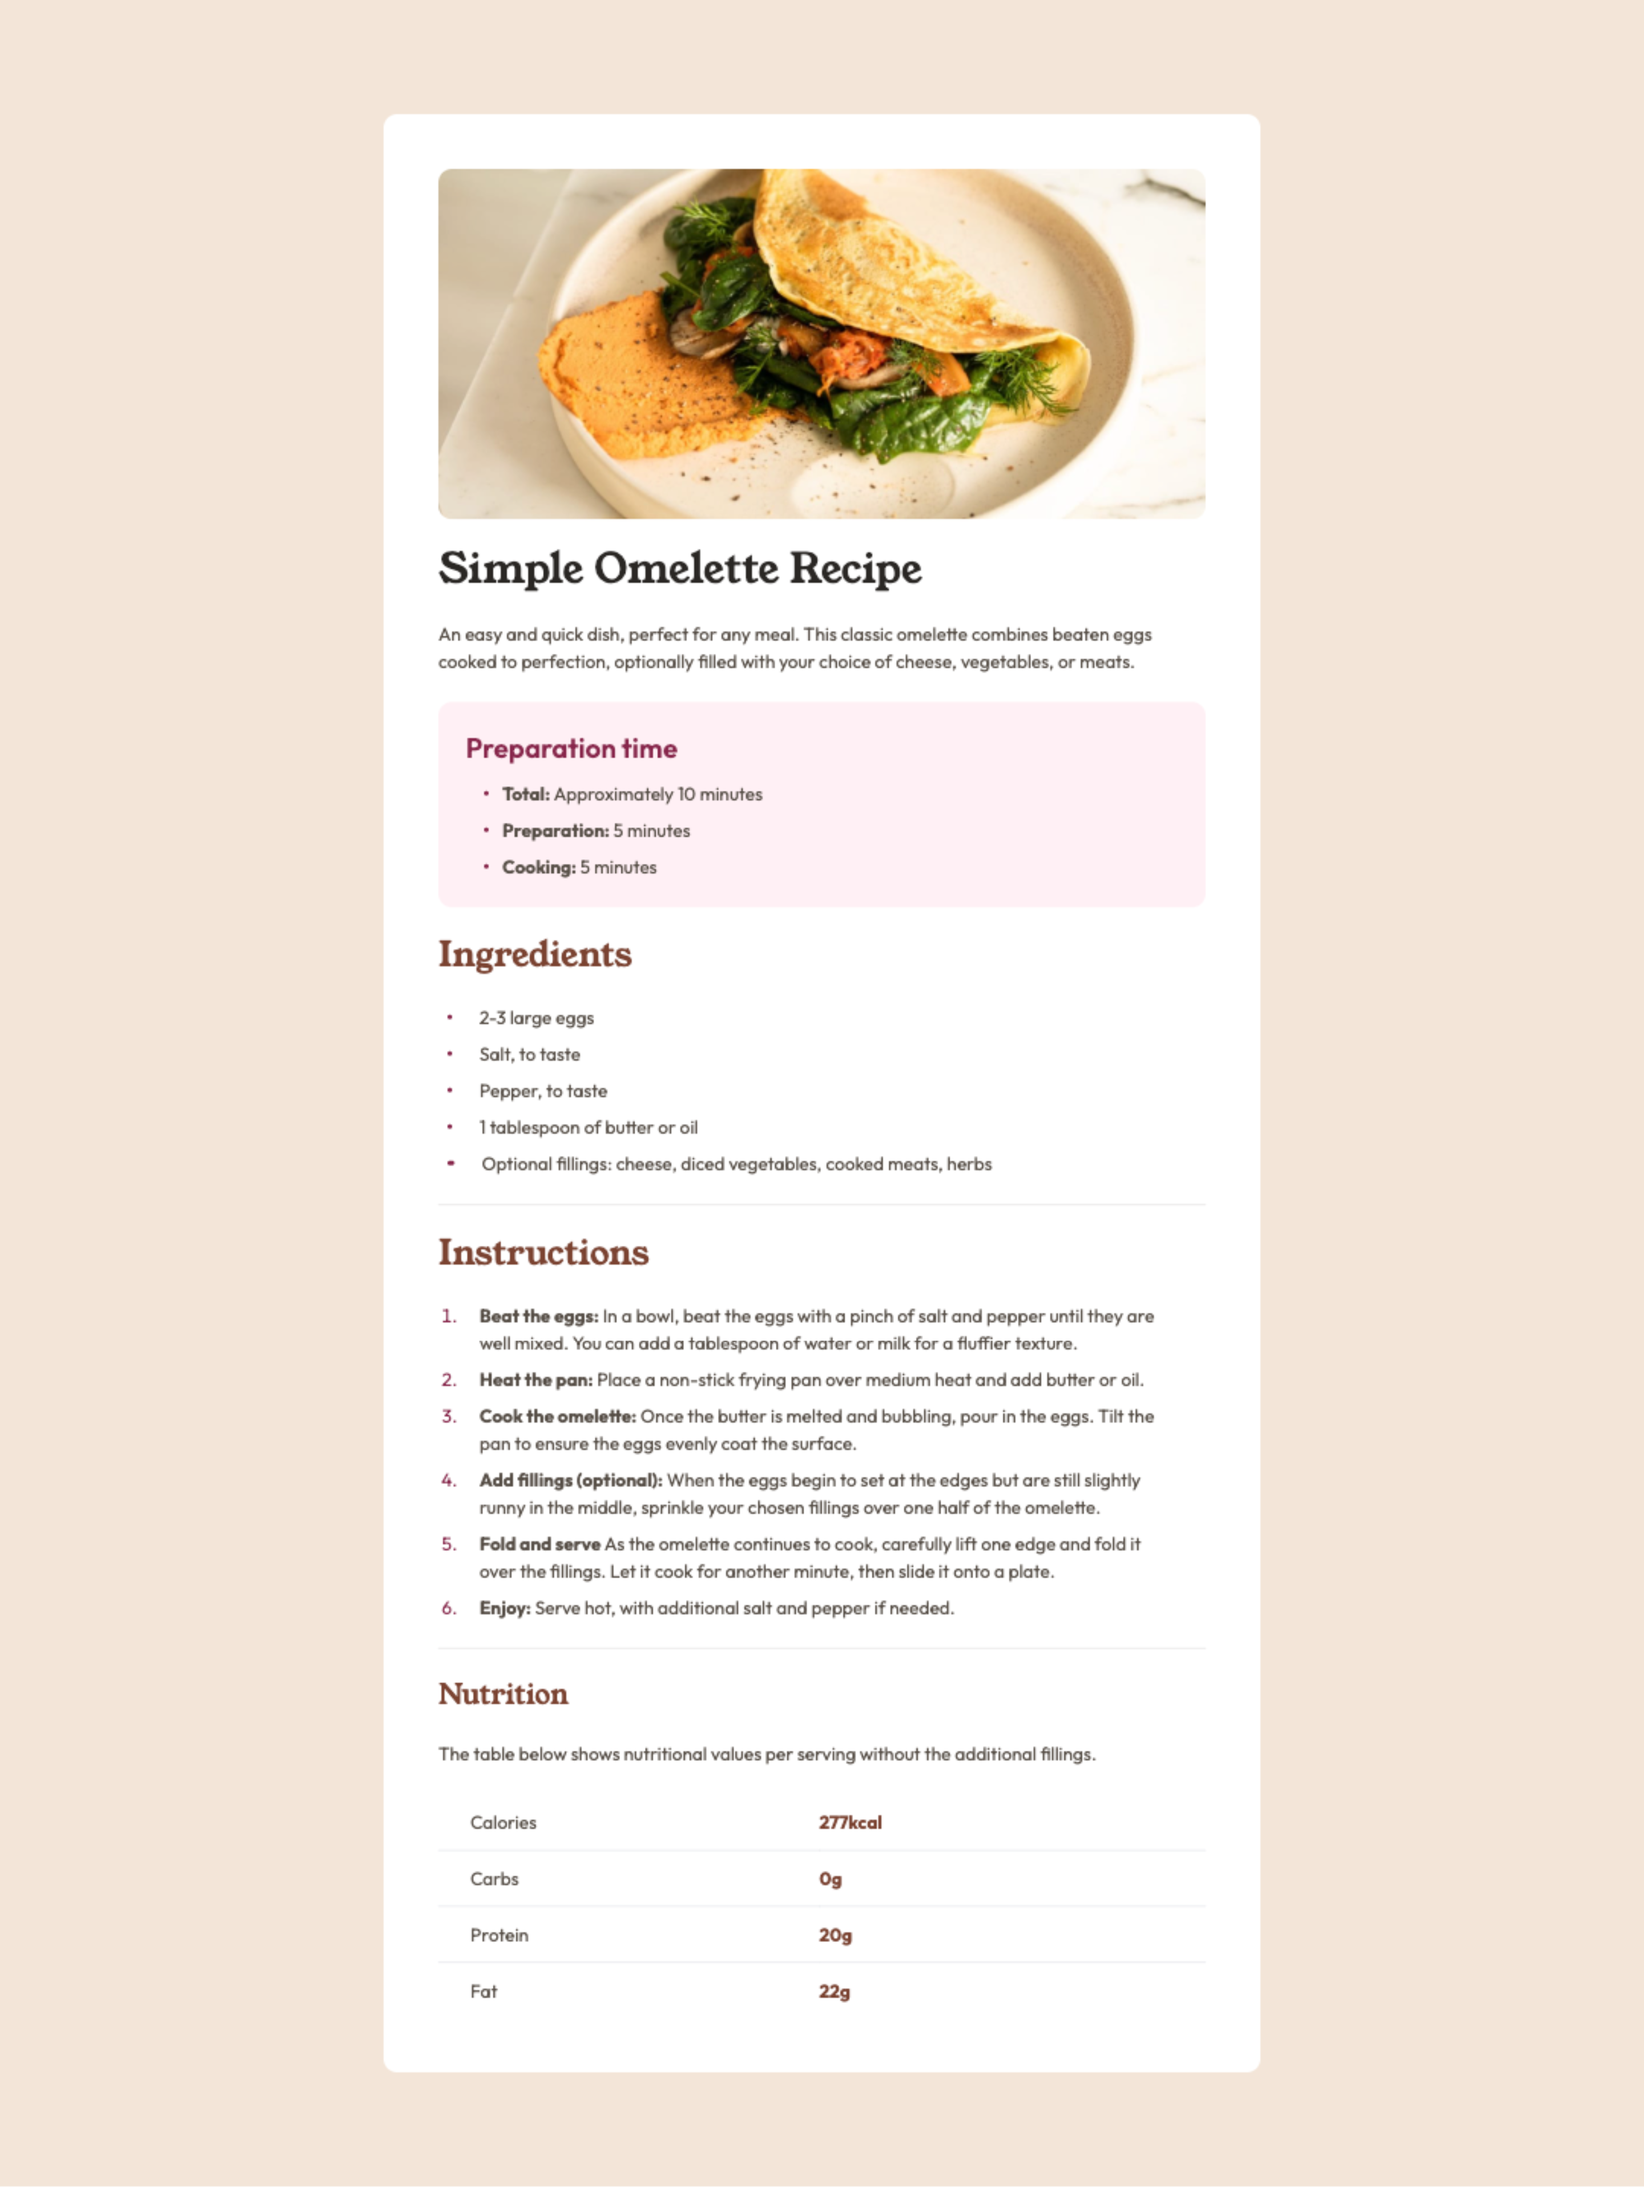
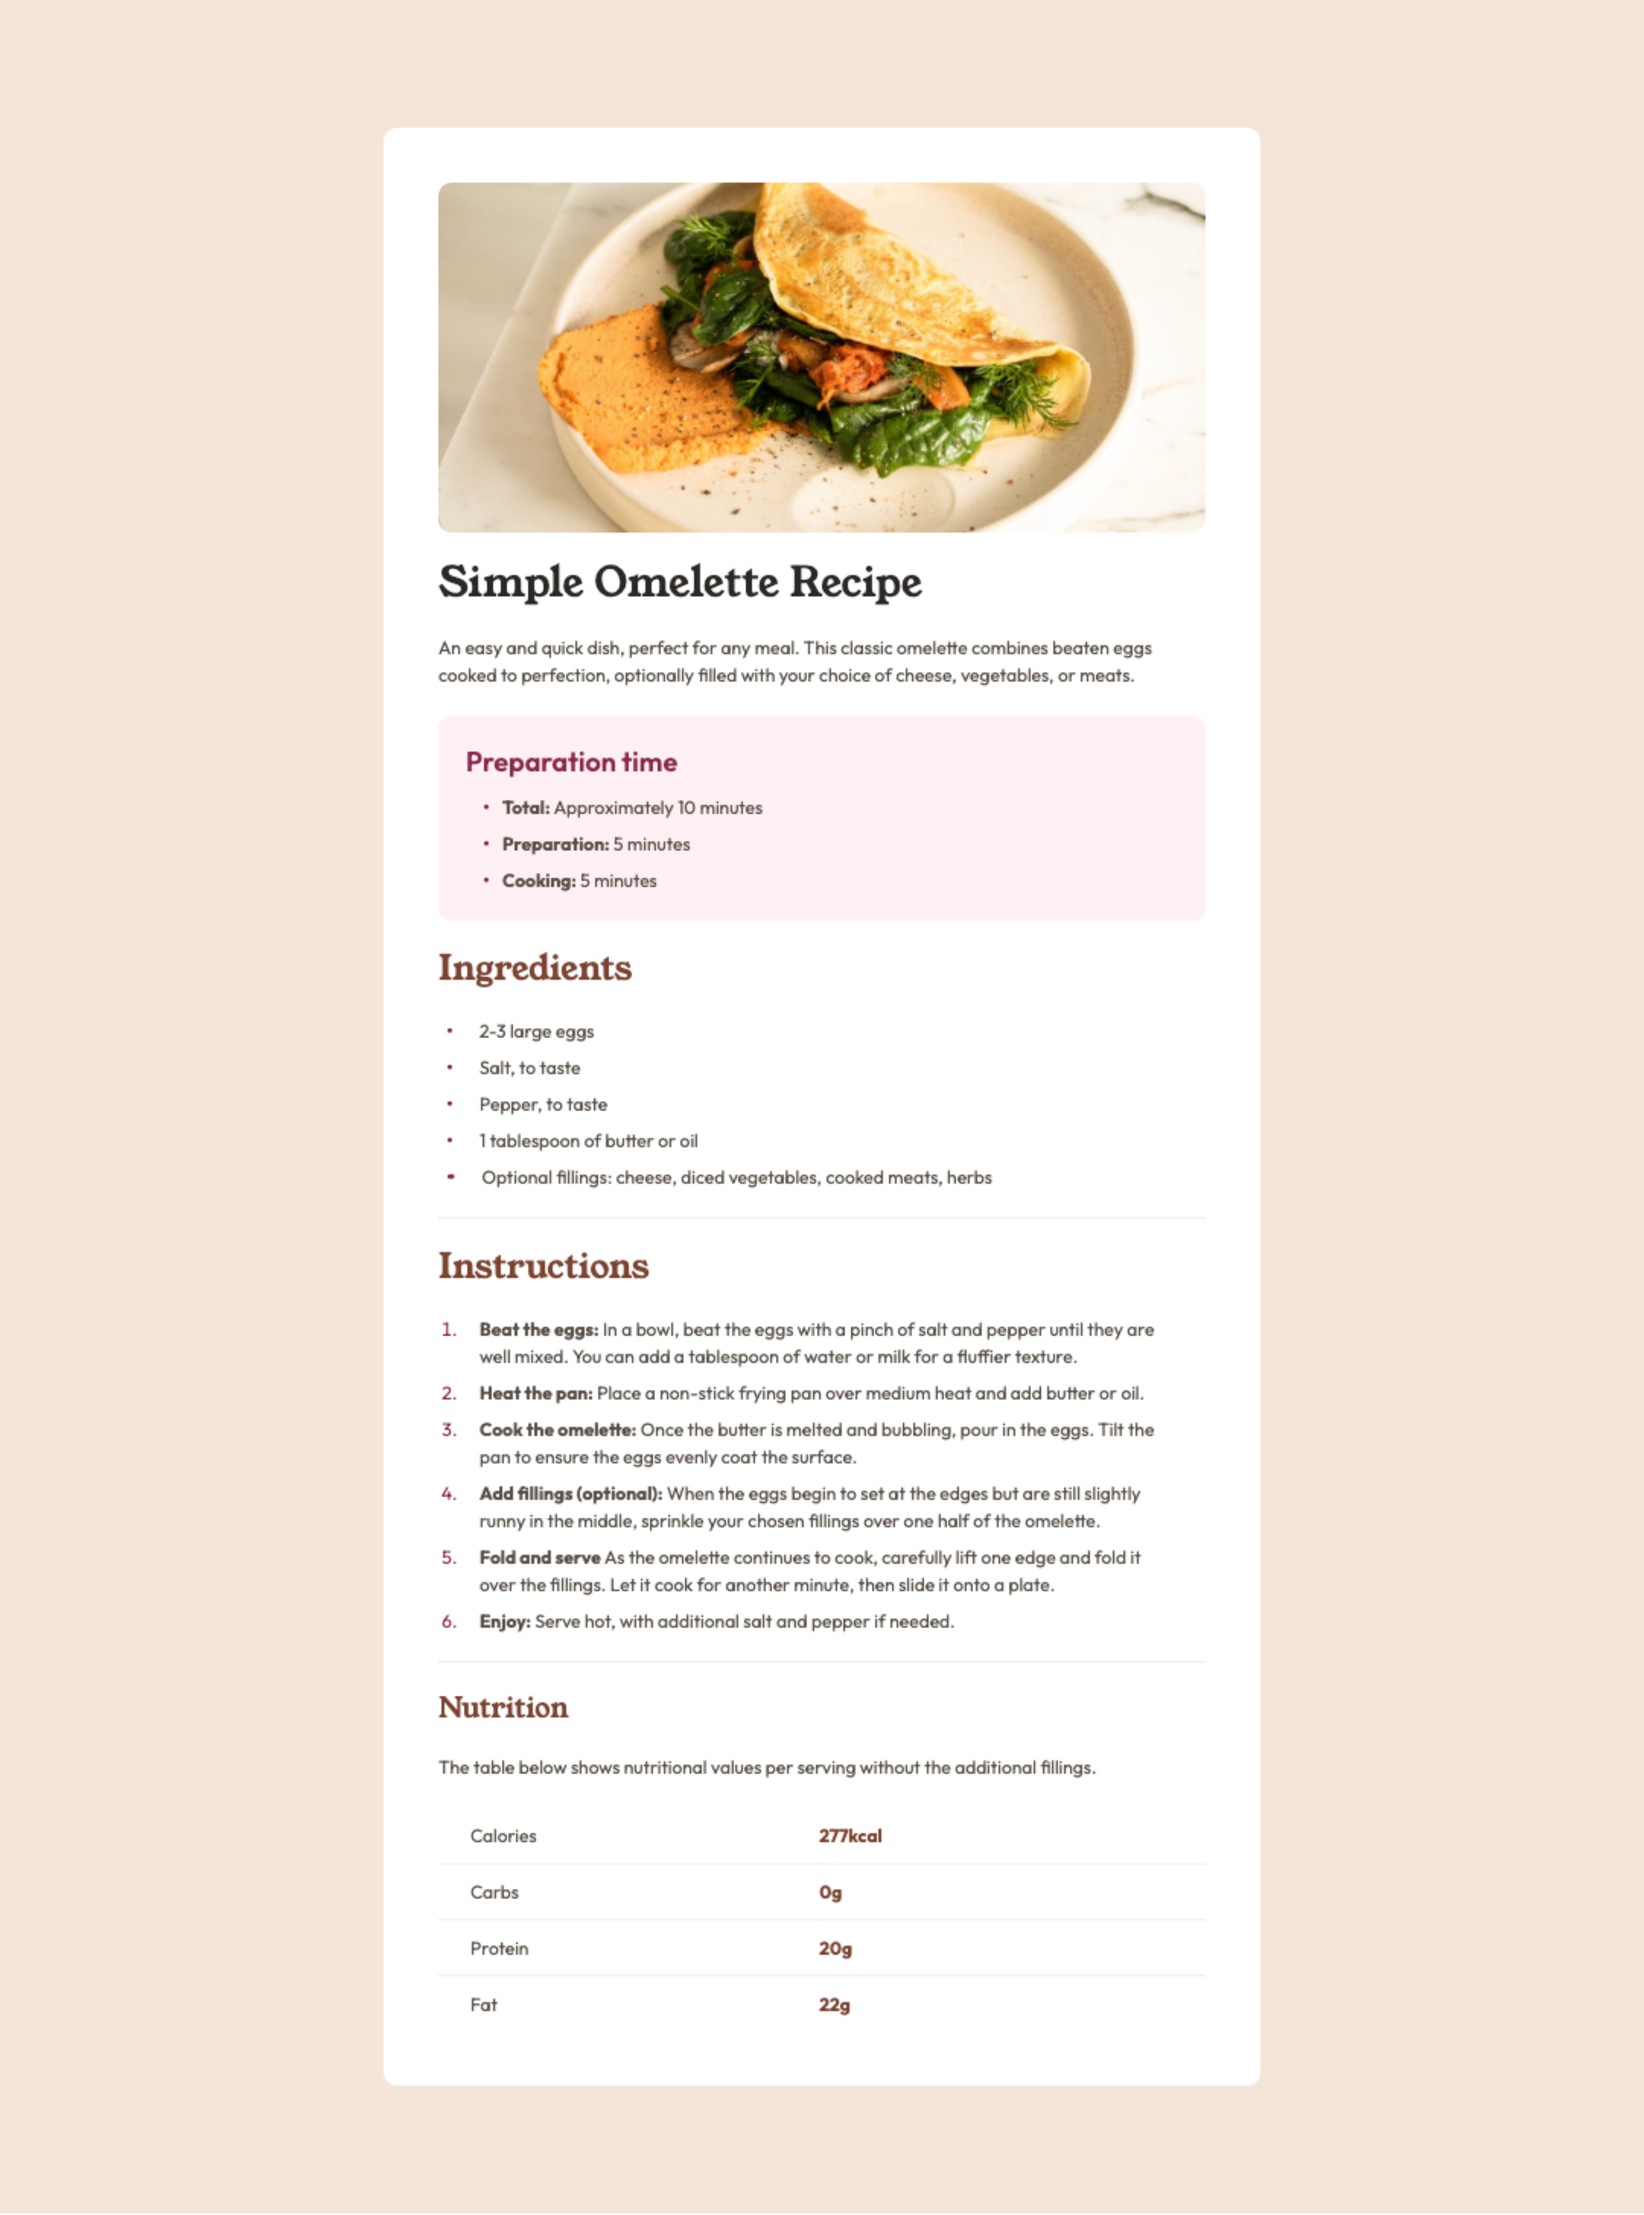
screenshot adjustment

diff --git a/index.html b/index.html
@@ -64,7 +64,7 @@
 <body>
 
   <main class="xl:w-full xl:h-full xl:flex xl:justify-center xl:items-center xl:bg-[#f3e5d8]">
-    <article class="bg-white flex flex-col gap-6 mb-8 xl:w-3xl xl:h-full xl:mt-25 xl:p-12 xl:rounded-xl xl:mb-25">
+    <article class="bg-white flex flex-col gap-6 mb-8 xl:w-3xl xl:h-full xl:mt-28 xl:p-12 xl:rounded-xl xl:mb-28">
    
       <img src="./assets/images/image-omelette.jpeg" alt="omelette" class="w-full xl:rounded-xl">
       
